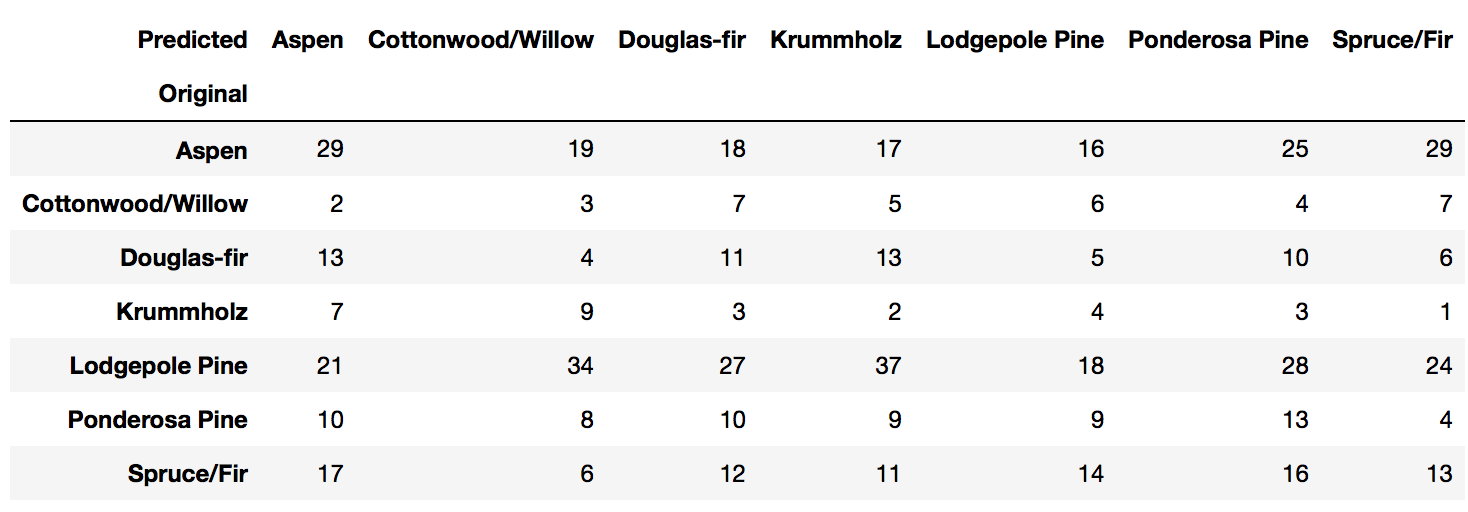
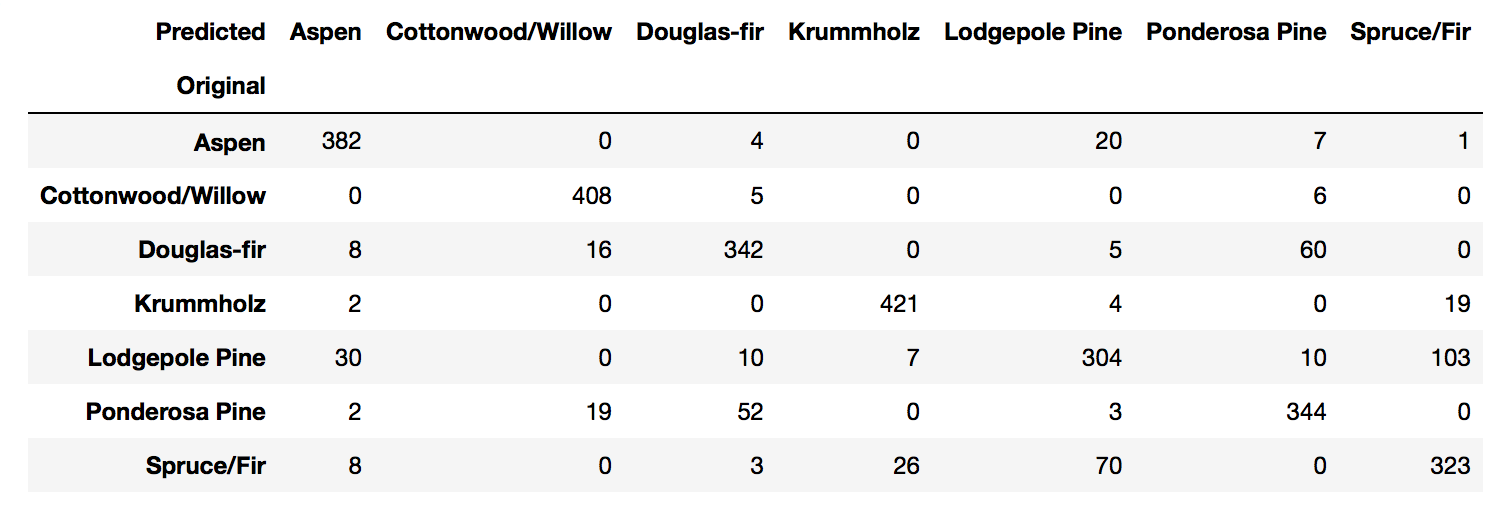
.

diff --git a/evaluation.rst b/evaluation.rst
@@ -90,7 +90,8 @@ With pandas crosstab. Convert encoding into labels and put the two pandas series
         return 'Krummholz'
 
   # Create pd Series for Original
-  Original = test_target.apply(lambda x: forest(x))
+  # need to reset index as it train_test is randomised
+  Original = test_target.apply(lambda x: forest(x)).reset_index(drop=True)
   Original.name = 'Original'
 
   # Create pd Series for Predicted
@@ -110,7 +111,8 @@ Using a heatmap.
 .. code:: python
   
    # add confusion matrix from pd.crosstab earlier
-   sns.heatmap(confusion,annot=True);
+   plt.figure(figsize=(10, 5))
+   sns.heatmap(confusion,annot=True,cmap=sns.cubehelix_palette(8));
 
 
 .. image:: images/confusion3.png
